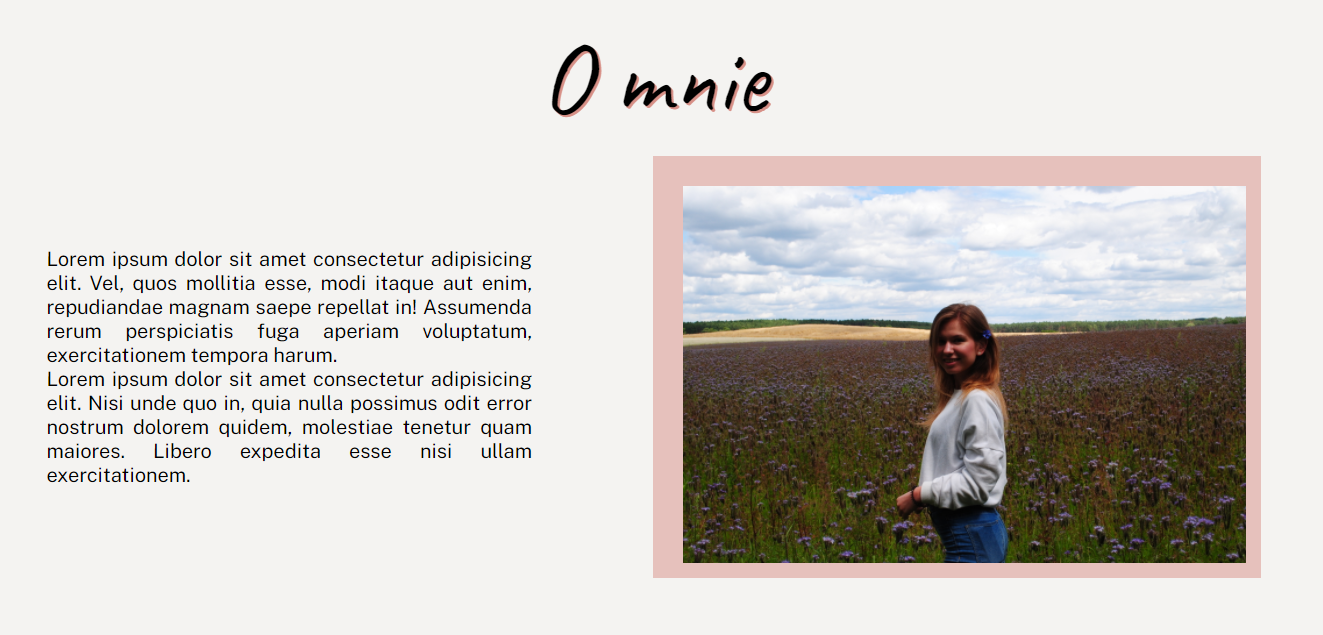
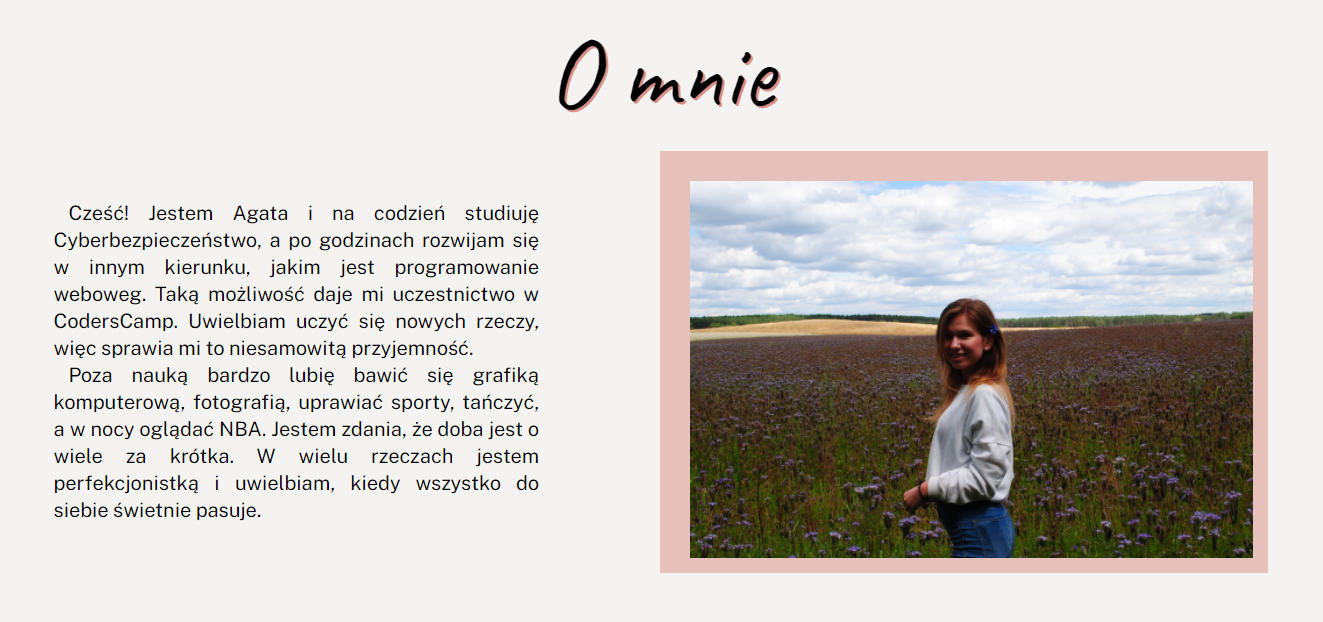
Ostatnie poprawki

diff --git a/index.html b/index.html
@@ -4,10 +4,10 @@
 <head>
     <!-- Required meta tags -->
     <meta charset="utf-8">
-    <meta name="viewport" content="width=device-width, initial-scale=1">
+    <meta name="viewport" content="width=device-width, initial-scale=1, shrink-to-fit=no">
     <title>CodersCamp | Projekt 1 - HTML i CSS</title>
     <meta name="description" content="CodersCamp to darmowy, otwarty kurs programowania webowego we Wrocławiu. Sprawdź, czego nauczysz się na CodersCamp i spróbuj swoich sił w branży IT!">
-    <link href="fontawesome-free-5.15.1-web/css/all.css" rel="stylesheet">
+    <link rel="stylesheet" href="https://cdnjs.cloudflare.com/ajax/libs/font-awesome/4.7.0/css/font-awesome.min.css">
     <link rel="stylesheet" href="style.css">
 
 </head>
@@ -16,9 +16,9 @@
 <header>
     <nav class="menu">
         <ul class="menu">
-            <li><a href="#o_mnie"><i class="far fa-address-card"></i>O mnie</a></li>
-            <li><a href="#portfolio"><i class="far fa-edit"></i>Moje portfolio</a></li>
-            <li><a href="#kontakt"><i class="far fa-envelope"></i>Kontakt</a></li>
+            <li><a href="#o_mnie"><i class="fa fa-address-card"></i>O mnie</a></li>
+            <li><a href="#portfolio"><i class="fa fa-edit"></i>Moje portfolio</a></li>
+            <li><a href="#kontakt"><i class="fa fa-envelope"></i>Kontakt</a></li>
         </ul>
     </nav>
     <div class="content">
@@ -34,8 +34,8 @@
 <section class="o_mnie" id="o_mnie">
     <h1 class="naglowek">O mnie</h1>
     <div class="opis">
-        <p>Lorem ipsum dolor sit amet consectetur adipisicing elit. Vel, quos mollitia esse, modi itaque aut enim, repudiandae magnam saepe repellat in! Assumenda rerum perspiciatis fuga aperiam voluptatum, exercitationem tempora harum.</p>
-        <p>Lorem ipsum dolor sit amet consectetur adipisicing elit. Nisi unde quo in, quia nulla possimus odit error nostrum dolorem quidem, molestiae tenetur quam maiores. Libero expedita esse nisi ullam exercitationem.</p>
+        <p>Cześć! Jestem Agata i na codzień studiuję Cyberbezpieczeństwo, a po godzinach rozwijam się w innym kierunku, jakim jest programowanie weboweg. Taką możliwość daje mi uczestnictwo w CodersCamp. Uwielbiam uczyć się nowych rzeczy, więc sprawia mi to niesamowitą przyjemność.</p>
+        <p>Poza nauką bardzo lubię bawić się grafiką komputerową, fotografią, uprawiać sporty, tańczyć, a w nocy oglądać NBA. Jestem zdania, że doba jest o wiele za krótka. W wielu rzeczach jestem perfekcjonistką i uwielbiam, kiedy wszystko do siebie świetnie pasuje.</p>
     </div>
     <img class="zdjecie" src="photos/ja.JPG" alt="To ja">
 </section>
@@ -76,5 +76,8 @@
         <button class="wyslij">Wyślij</button>
     </form>
 </section>
+<footer>
+    <p>© 2020 by Agata Ludwiczyńska</p>
+</footer>
 </body>
 </html>

diff --git a/style.css b/style.css
@@ -132,6 +132,10 @@ section.o_mnie div.opis{
     align-self: center;
     text-align: justify;
 }
+section.o_mnie div.opis p{
+    line-height: 135%;
+    text-indent: 15px;
+}
 section.o_mnie img{
     grid-row-end: -1;
     grid-column-start: 2;
@@ -146,7 +150,7 @@ section.o_mnie img{
 
 section.portfolio{
     background-color: #F4F3F1;
-    padding-bottom: 25px;
+    padding-bottom: 40px;
 }
 
 section.portfolio h1{
@@ -155,7 +159,6 @@ section.portfolio h1{
 }
 
 section.portfolio div.elementy{
-    margin-top: 7%;
     display: flex;
     flex-wrap: wrap;
     justify-content: space-around;
@@ -210,6 +213,7 @@ section.kontakt{
     background-image: url(photos/tło1.jpg);
     background-size: cover;
     background-repeat: no-repeat;
+    padding-bottom: 40px;
 }
 
 section.kontakt h1{
@@ -250,6 +254,10 @@ button.wyslij{
     background-color: transparent;
 }
 
+button.wyslij:hover{
+    border-color:rgb(215, 144, 135);
+}
+
 label{
     grid-column: span 2/-1;
 }
@@ -282,6 +290,17 @@ label.tresc p{
 textarea.tresc{
     width: 80%;
     height: 20vh;
+}
+
+/* footer */
+
+footer{
+    background-color: rgb(215, 144, 135);
+    height:10vh;
+}
+footer p{
+    line-height: 10vh;
+    text-align: center;
 }
 
 /* @media */
@@ -328,9 +347,7 @@ textarea.tresc{
     }
     
     /* header */
-    div.text{
-        top:5%;
-    }
+    
     div.text p.witaj{
         font-size: 100px;
     }
@@ -467,6 +484,10 @@ textarea.tresc{
 @media (hover: none) and (orientation: landscape) and (max-width: 850px){
     h1.naglowek{
         font-size: 60px;
+    }
+    /* header */
+    div.text{
+        top:5%;
     }
     /* portfolio */
     div.elementy div.p_element{
